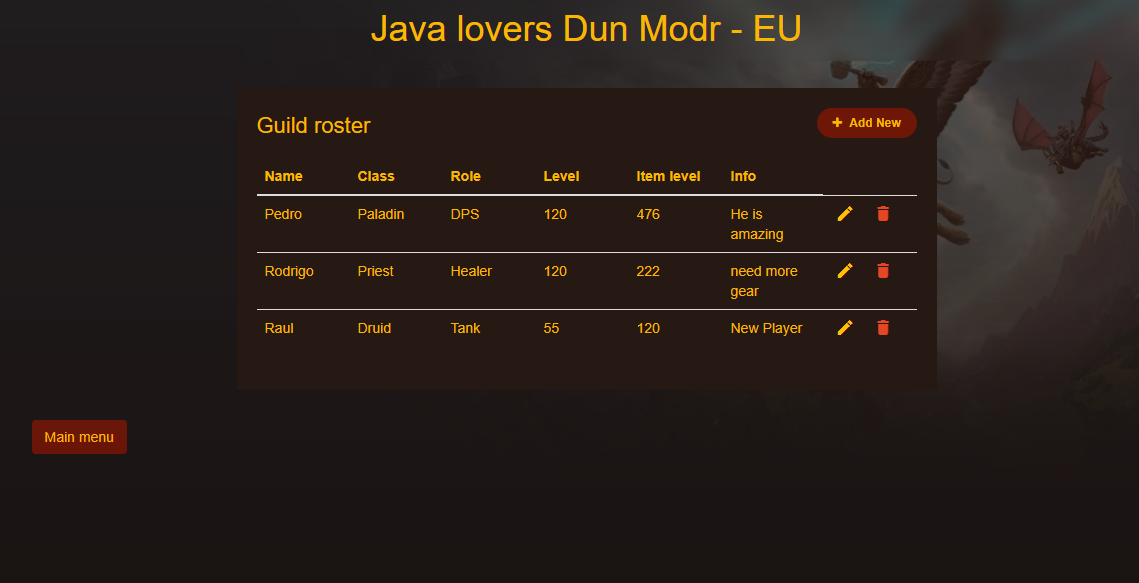
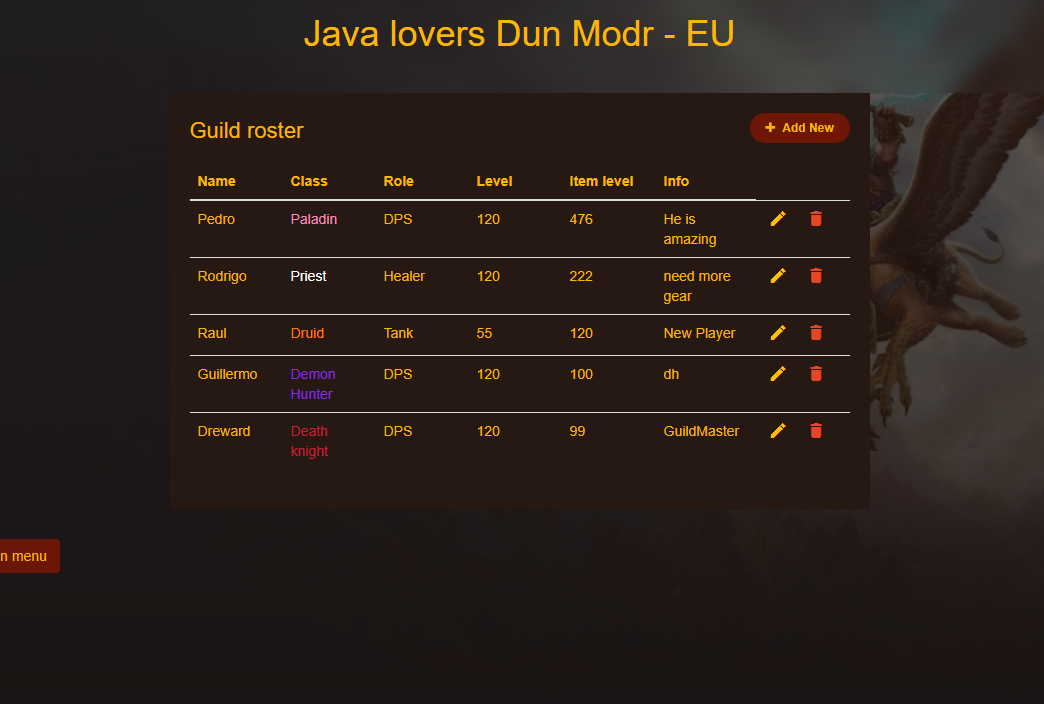
add colors to classes

diff --git a/web/css/manageGuild.css b/web/css/manageGuild.css
@@ -99,3 +99,39 @@ table.table td .add {
   background-color: red;
   color: #261812;
 }
+
+.Paladin {
+  color: #F58CBA;
+}
+
+.Demon {
+  color:  blueviolet;
+}
+
+.Hunter {
+  color:  #ABD473;
+}
+
+.Warlock {
+  color:  #9482C9;
+}
+
+.Death {
+  color: #C41F3B;
+}
+
+.Druid {
+  color: #FF7D0A
+}
+
+.Monk {
+  color:  #00FF96;
+}
+
+.Priest {
+  color: #FFFFFF;
+}
+
+.Warrior {
+  color: #C79C6E;
+}
